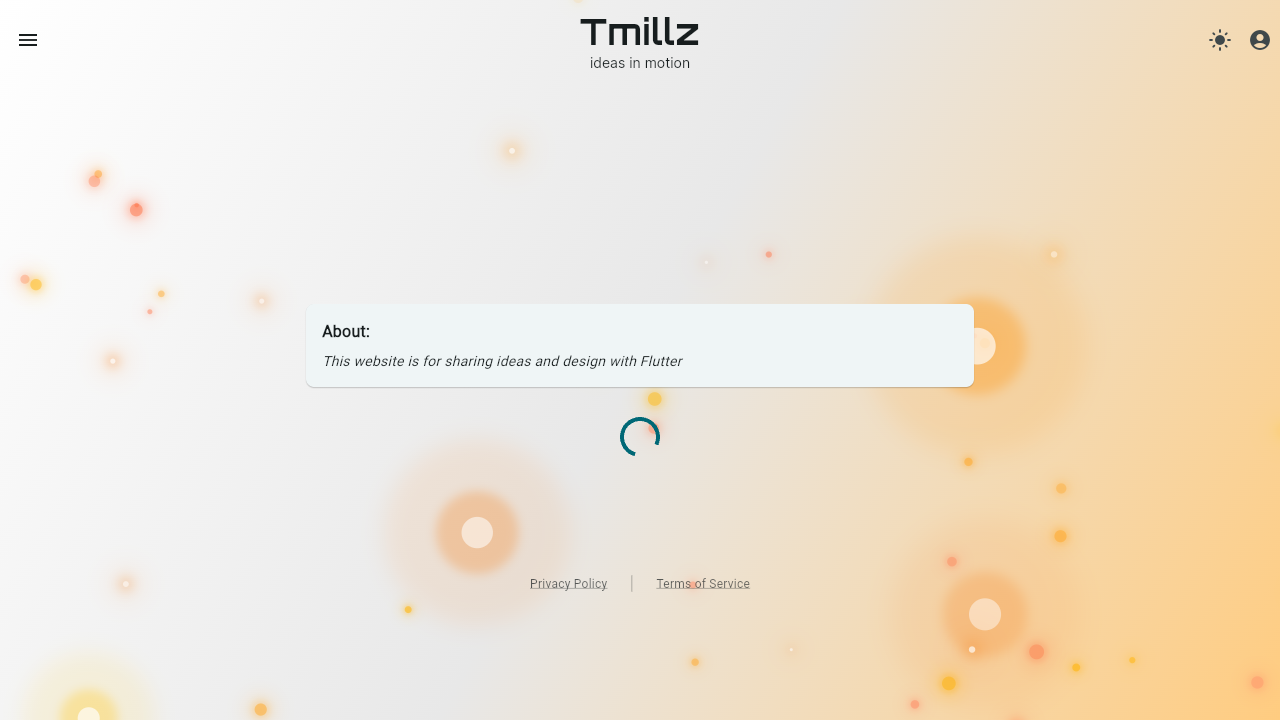
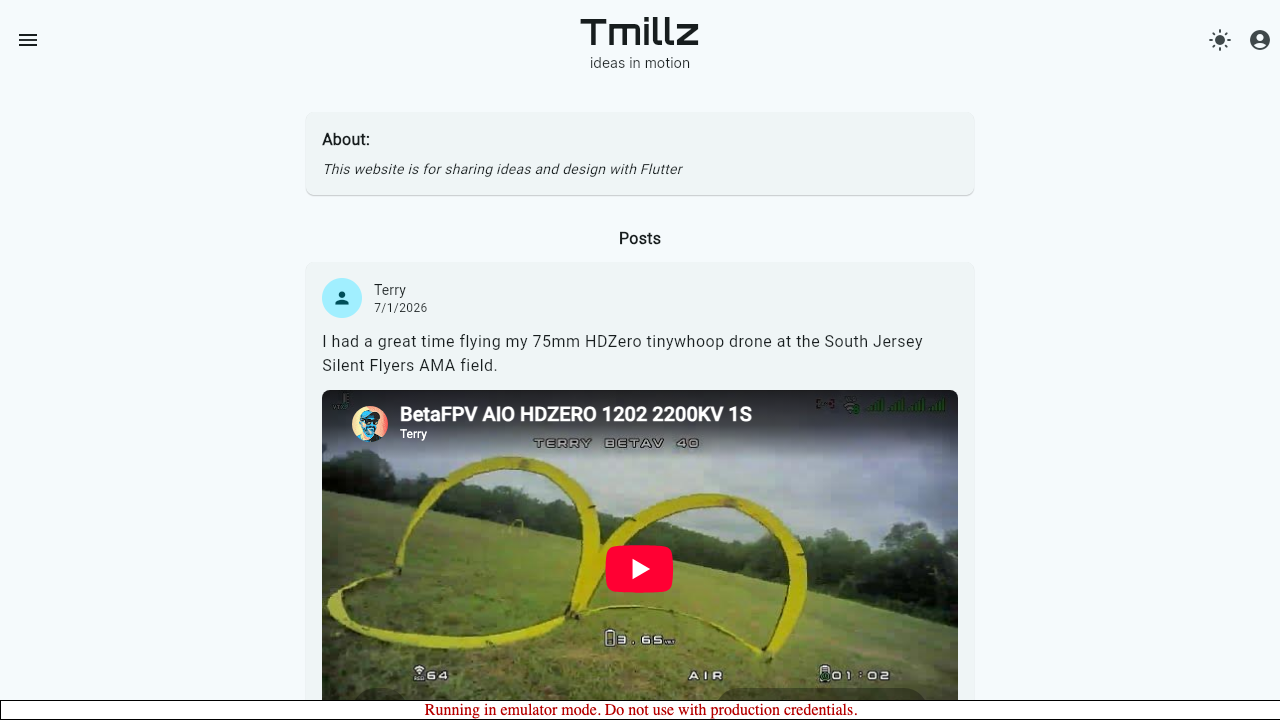
remove screenshot from PR workflow add seperate script to run locally

diff --git a/scripts/take_screenshot.js b/scripts/take_screenshot.js
@@ -1,0 +1,16 @@
+const { chromium } = require('playwright');
+
+(async () => {
+    const browser = await chromium.launch();
+    const page = await browser.newPage();
+
+    await page.goto('http://localhost:3000', { waitUntil: 'load', timeout: 60000 });
+    await page.waitForSelector('flt-glass-pane', { state: 'attached', timeout: 30000 });
+
+    // Fixed wait: flt-glass-pane shadow DOM is opaque to querySelector; 8s covers
+    // CanvasKit WASM init + Firestore emulator data load
+    await page.waitForTimeout(8000);
+    await page.screenshot({ path: 'screenshots/home-screen.png' });
+
+    await browser.close();
+})();

diff --git a/scripts/update_readme.py b/scripts/update_readme.py
@@ -1,0 +1,21 @@
+import re, pathlib
+
+readme        = pathlib.Path(__file__).parent.parent / 'README.md'
+content       = readme.read_text()
+
+marker_start  = '<!-- screenshot-start -->'
+marker_end    = '<!-- screenshot-end -->'
+image_ref     = '![Home Screen](screenshots/home-screen.png)'
+
+block   = f'{marker_start}\n{image_ref}\n{marker_end}'
+pattern = re.compile(
+    rf'{re.escape(marker_start)}.*?{re.escape(marker_end)}',
+    re.DOTALL
+)
+
+if pattern.search(content):
+    content = pattern.sub(block, content)
+else:
+    content = content.rstrip('\n') + '\n\n' + block + '\n'
+
+readme.write_text(content)
